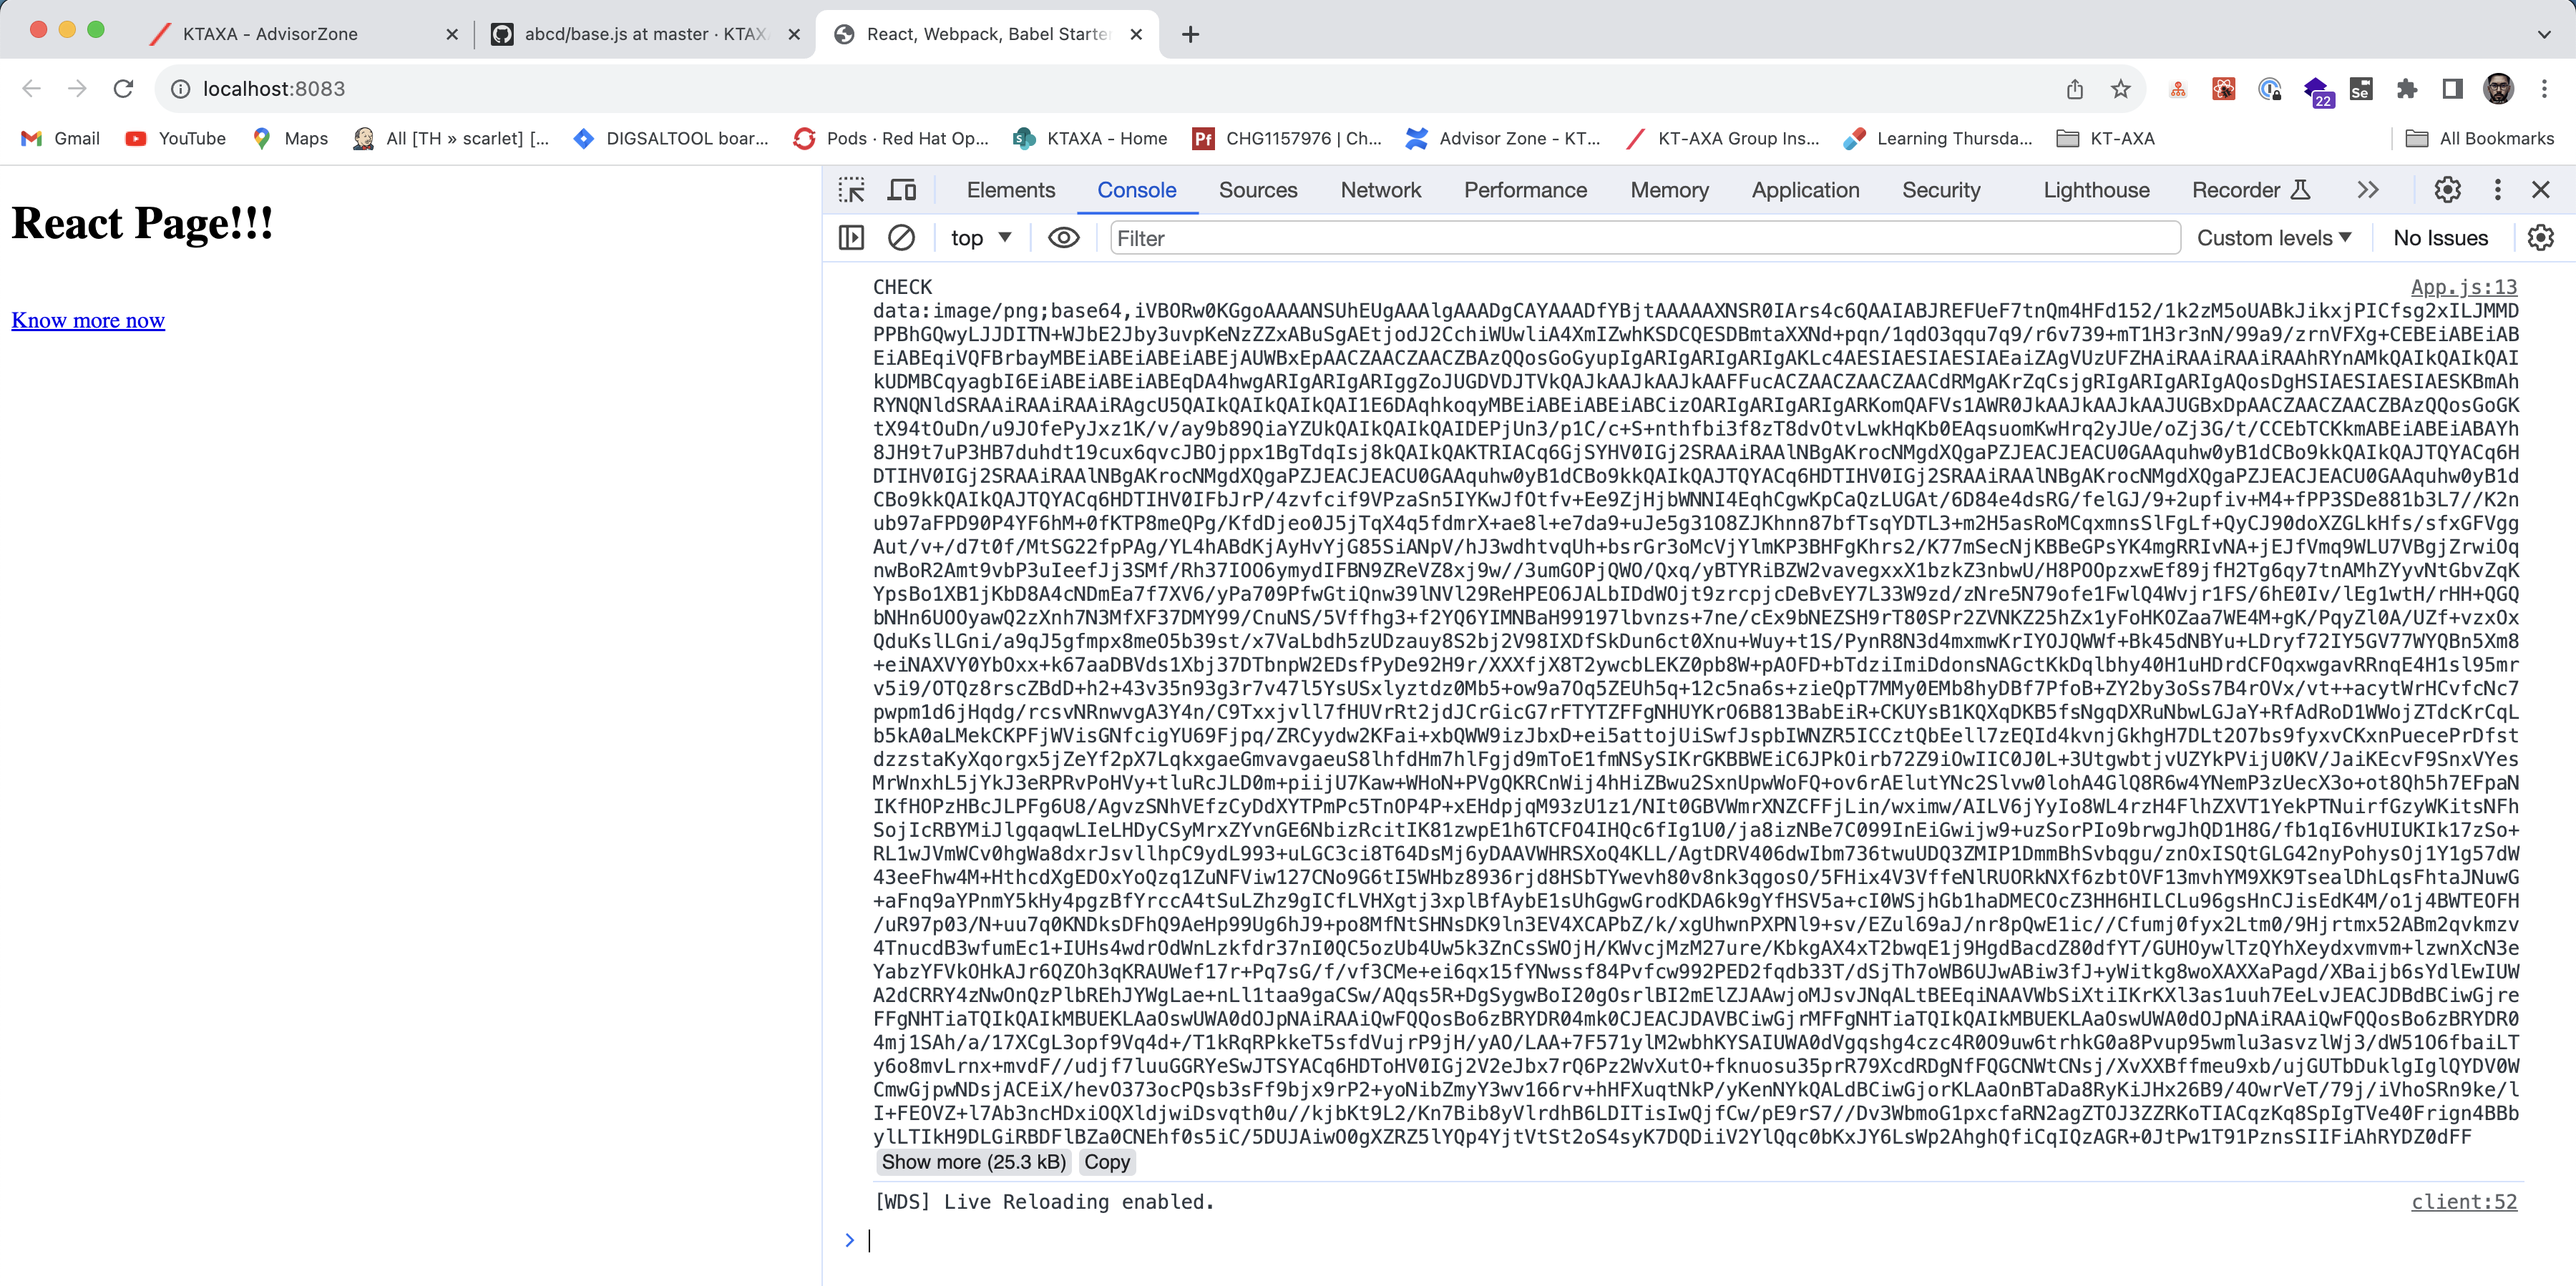
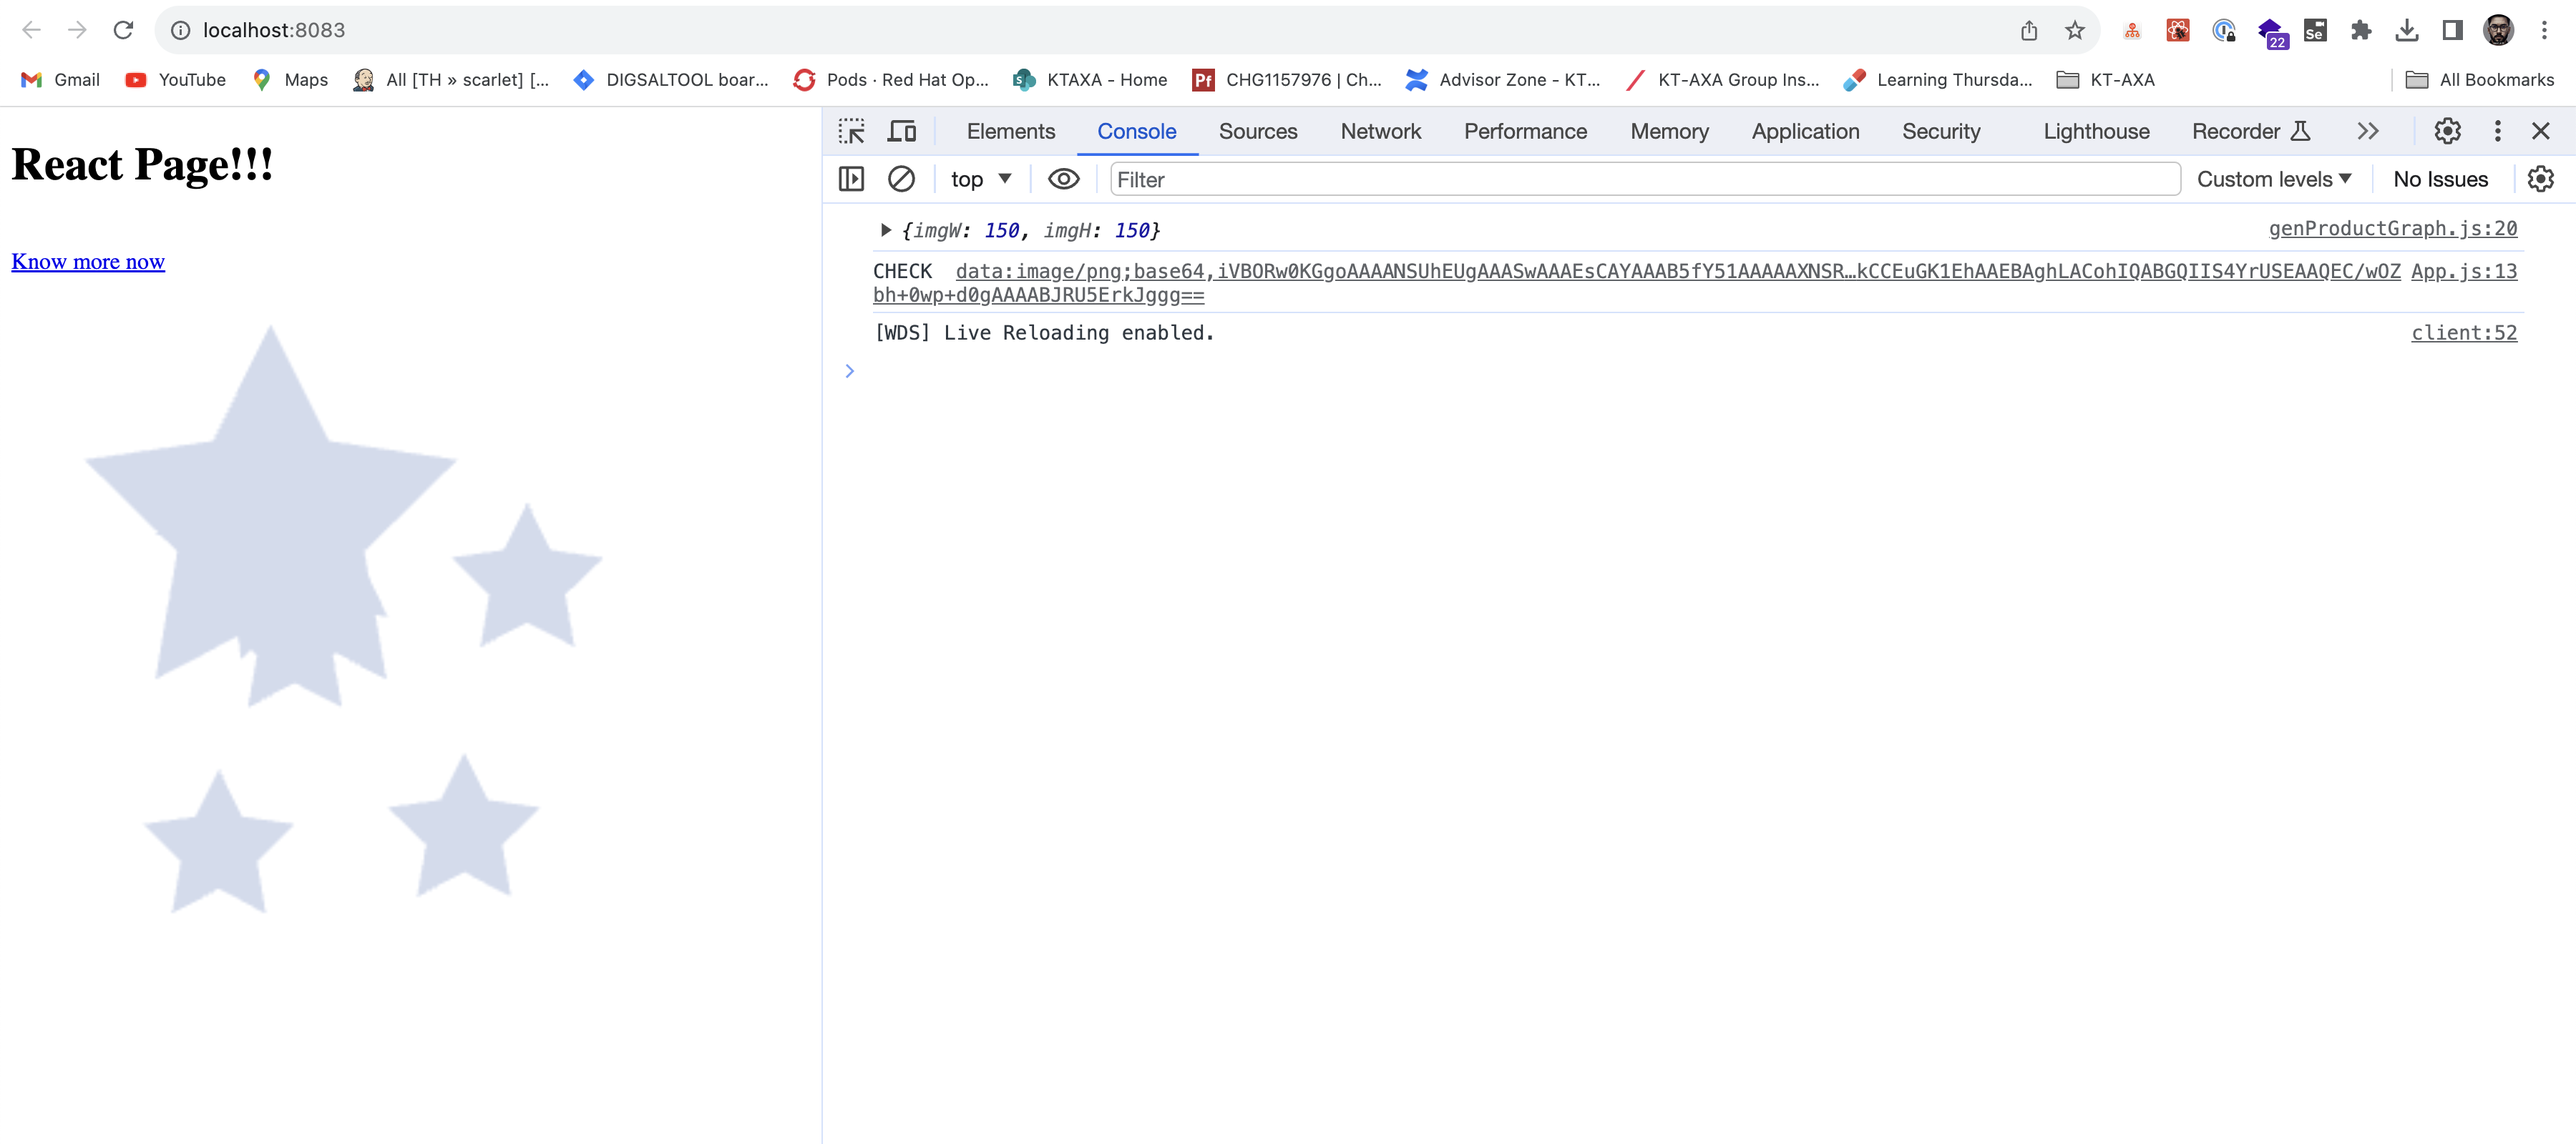
render image

diff --git a/src/libs/genProductGraph.js b/src/libs/genProductGraph.js
@@ -20,10 +20,17 @@ export const SVGToBase64 = (rawSVG) => {
       canvas.width = img.width * devicePixelRatio;
       canvas.height = img.height * devicePixelRatio;
 
+      console.log({
+        imgW: img.width,
+        imgH: img.height,
+      });
+
       ctx.drawImage(img, 0, 0);
       resolve(canvas.toDataURL());
       canvas = null;
     };
+
+    document.getElementById('app').appendChild(canvas);
 
     img.onerror = () => reject('error');
   });

diff --git a/src/components/App.js b/src/components/App.js
@@ -3,7 +3,7 @@ import { useEffect, useState } from 'react';
 import { generateProductGraph } from '../libs/genProductGraph';
 
 const App = () => {
-  const [svgUrl, setSvgUrl] = useState('');
+  const [imageUrl, setImageUrl] = useState('');
 
   useEffect(() => {
     const getRawSvg = async () => {
